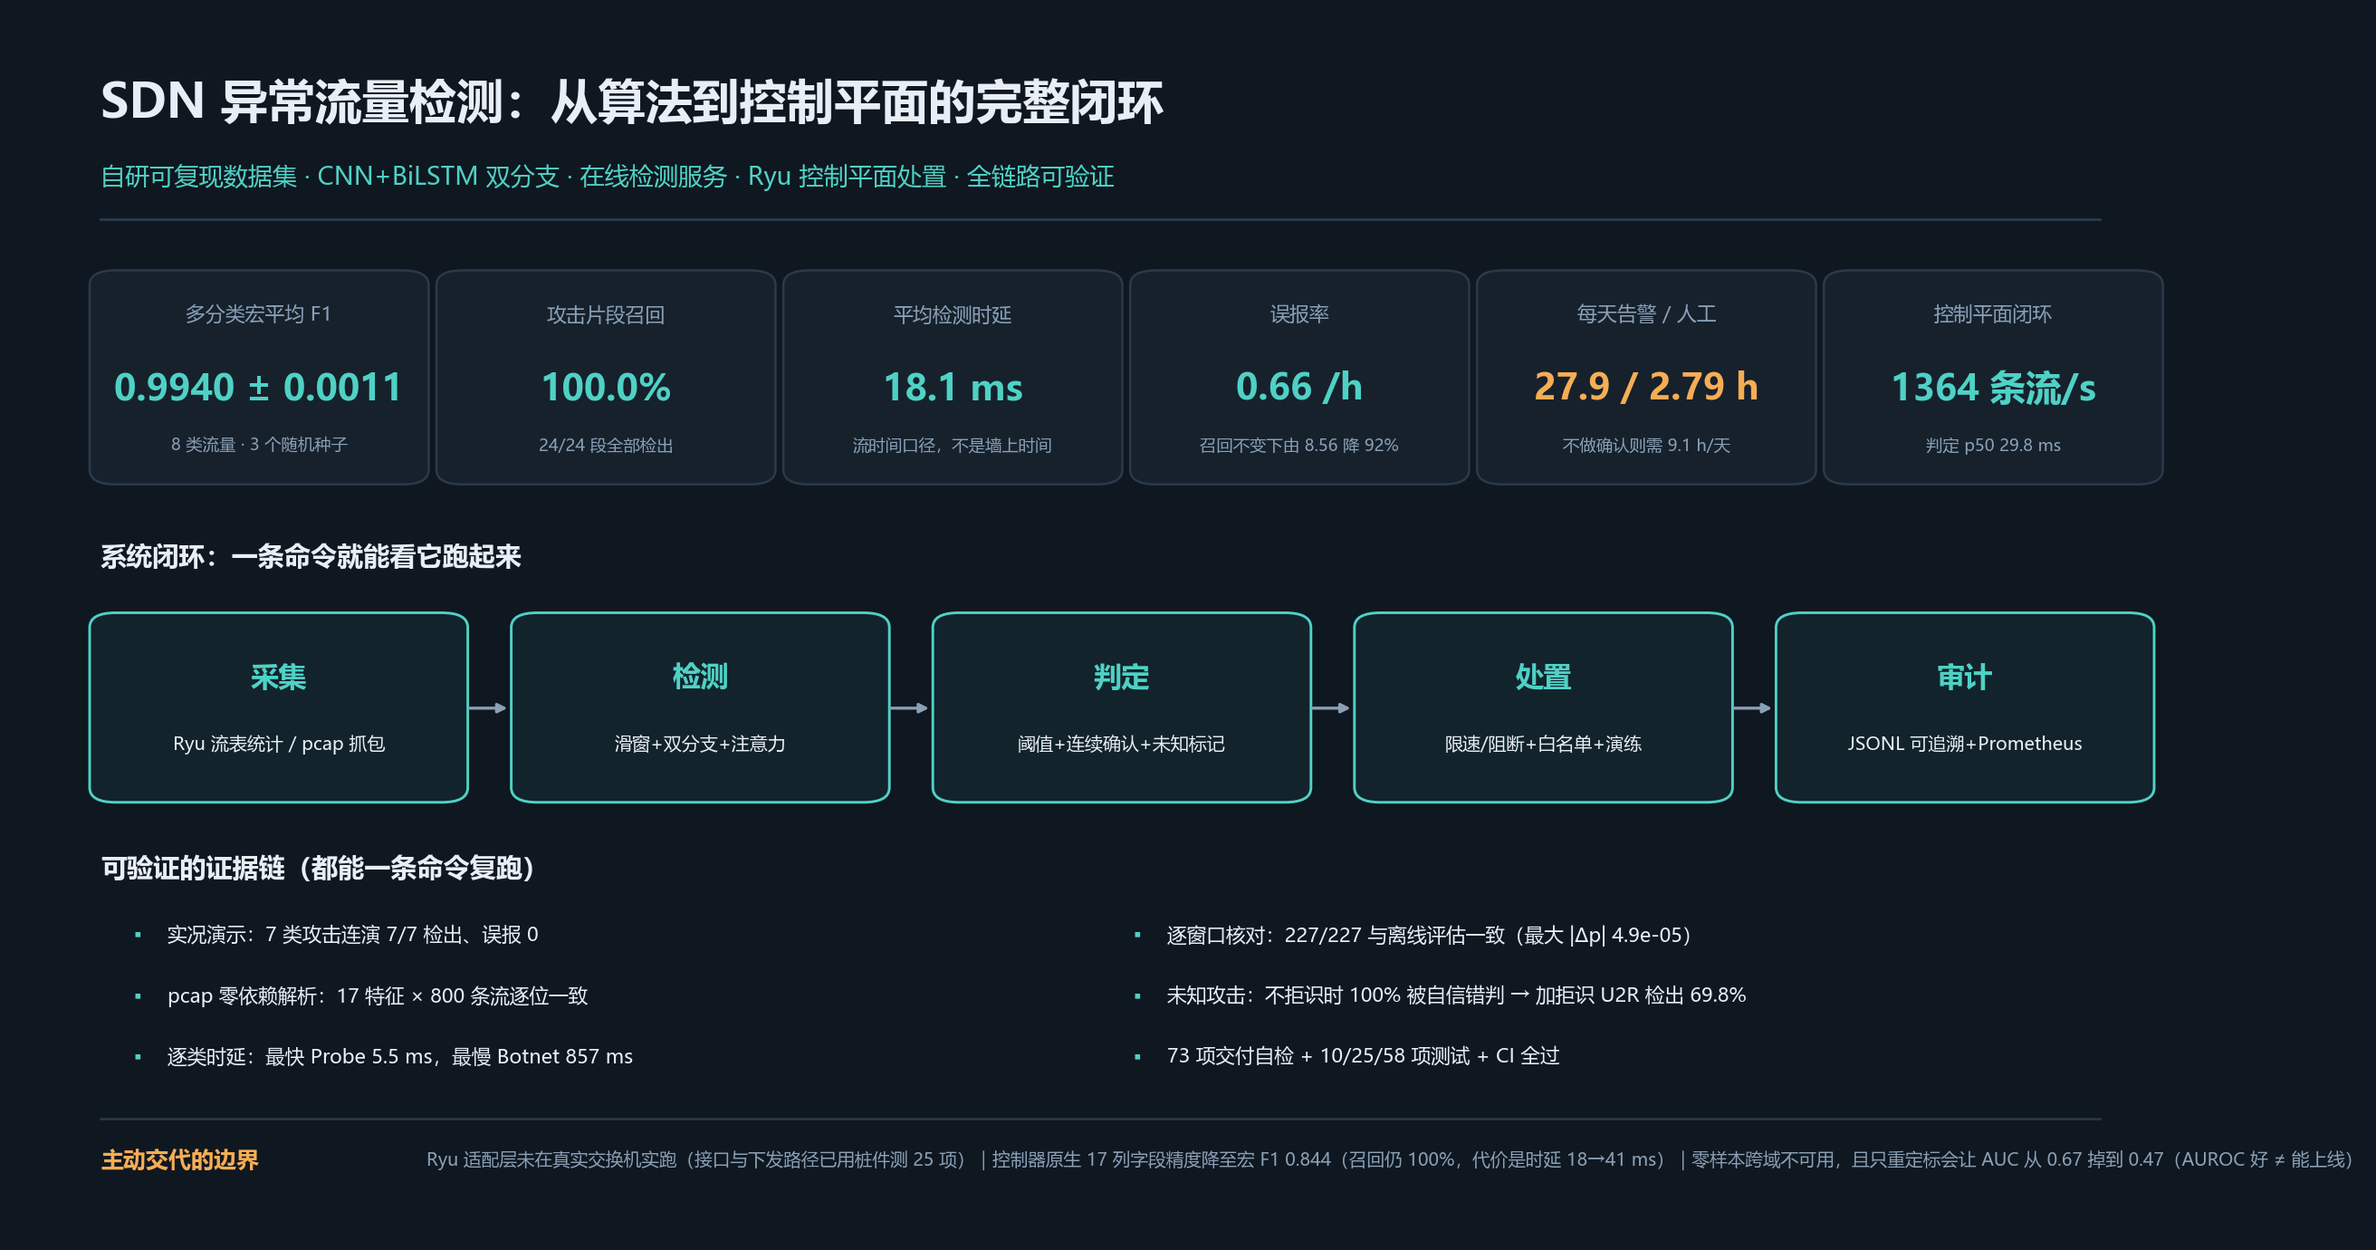
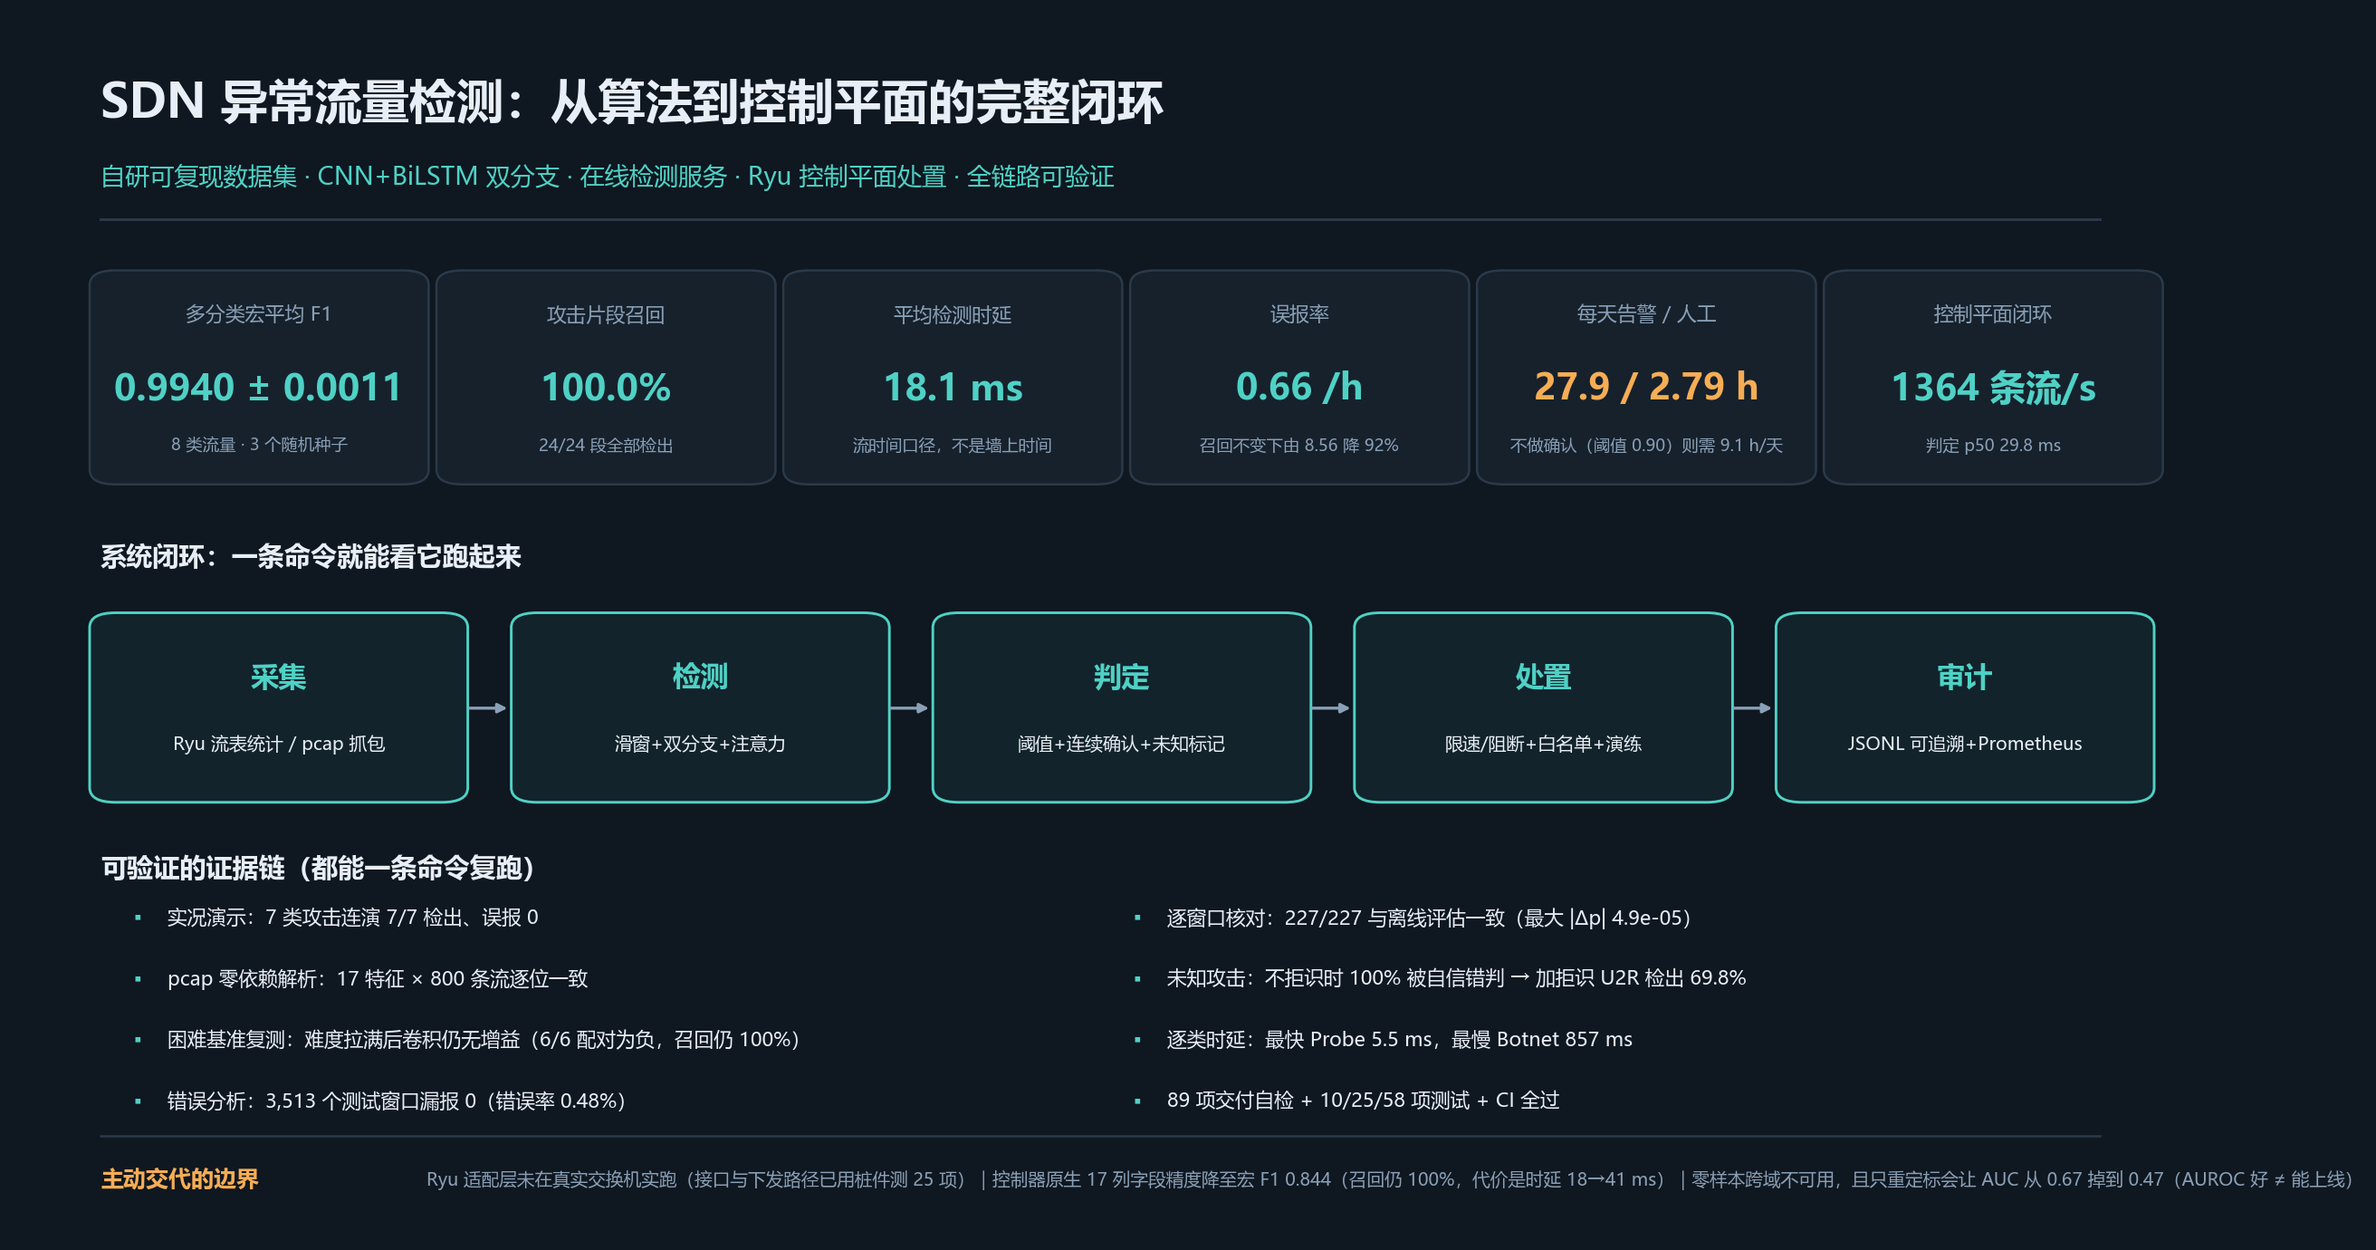
polish(materials): 把困难基准结论搬进对外材料，并堵住"对外数字漂移"这类坑
一页纸（视频路演满屏结论页）
- 证据链从 6 条扩到 8 条：新增「困难基准复测：难度拉满后卷积仍无增益（6/6 配对为负，
  召回仍 100%）」与「错误分析：3,513 个测试窗口漏报 0（错误率 0.48%）」，
  版面改为 2×4 并下移分割线与边界行（已用本地 qwen3-vl 核验：8 条齐全、无压字、无乱码）。
- 修掉图上一处过期数字：图上写「73 项交付自检」，实际已是 89 项。
- 澄清一处易误读的注释：「不做确认则需 9.1 h/天」→「不做确认（阈值 0.90）则需 9.1 h/天」，
  避免与默认工作点（0.50 + 确认 3）的 22.5 h/天 混淆。

防漂移守卫（自查工具）
- tools/acceptance_check.py 新增第 8 节「对外材料里的数字与真实自检结果一致」：
  把 tools/make_onepager.py 里写死的「N 项交付自检」与本次真实通过数对齐，
  不一致直接计入 failed（仍然是"不过就不许提交"的硬约束）。
  该步故意不占用自检项数（不调用 r.check），否则项数会把自己算进去，
  每加一个检查就要把所有对外文档的数字再改一遍 —— 反而制造新的漂移源；故仍为 89 项。
- 已用故障注入验证该守卫真的会拦：把图上数字临时改成 88 项后，守卫给出 ✗ 且 failed=1
  （验证后已还原，当前 89/89 通过）。

文档一致性
- docs/04_运维手册.md 新增「换个更难的网络环境，这个选型还成立吗」三问三答：
  ① 片段召回不随难度退化（30/30 全检出，与简单基准 24/24 同为 100%）；
  ② 误报会涨（3.29→14.88 次/小时）但主因是流量变模糊，换环境必须重标阈值；
  ③ 别指望加长窗口救极端环境（困难档 T=32 误报仍有 4.43±1.68）。
- docs/03_答辩要点与配置清单.md：Q11「为什么 CNN 分支增益不明显」改写为五步完整链条
  （T=48 → 另造困难基准 → 逐种子配对 6/6 为负 → 可解释原因 → 难度翻倍召回仍 100%），
  并在「30 秒必说的数字」表里加一行。
- docs/screenshots/README.md：补齐 03/04 两张既有截图的说明（含 04 漂移面板的实测数字
  与「熵高 ≠ 检测到未知攻击」的边界），并修掉「通过 52 项」这一过期数字。
- competition/04_演示视频脚本.md：新增「04:00–04:20 把最容易被质疑的结论主动测穿」整段讲解词
  （困难基准对比图作画面），时间轴重排为 4:55，并加进录制后自查清单与 3 分钟删减优先级。
- competition/README.md：评分对照表补上困难基准复测；结果速览更新窗口消融到 T=32
  （误报 0.11 次/小时、逐种子波动收敛）并新增困难基准一行；图表数改为可核验的 25 张。
- 全局：验收项数 69→89（含 docs/04 与视频脚本里残留的 73），工具数 14/18→25。

验证：sanitize 0 处；三套测试 10/10、25/25、58/58；交付验收 89 项通过 / 1 警告 / 0 失败。

Changed region(s): [[0.0312, 0.7167, 1.0, 0.9659], [0.625, 0.3428, 0.75, 0.3739]]

diff --git a/tools/make_onepager.py b/tools/make_onepager.py
@@ -162,7 +162,7 @@ def render(d: dict, out: Path) -> Path | None:
          _L("召回不变下由 8.56 降 92%", "92% cut, recall kept"), ACC),
         (_L("每天告警 / 人工", "Alerts & triage per day"),
          (f"{_fmt(d['alarms_day'], 1)} / {_fmt(d['triage_h'], 2)} h" if d["alarms_day"] else "n/a"),
-         _L("不做确认则需 9.1 h/天", "9.1 h/day without confirmation"), WARN),
+         _L("不做确认（阈值 0.90）则需 9.1 h/天", "9.1 h/day without confirmation"), WARN),
         (_L("控制平面闭环", "End-to-end loop"),
          (f"{_fmt(d['e2e_throughput'], 0)} 条流/s" if d["e2e_throughput"] else "n/a"),
          _L(f"判定 p50 {_fmt(d['e2e_p50'], 1)} ms", ""), ACC),
@@ -210,23 +210,27 @@ def render(d: dict, out: Path) -> Path | None:
            "pcap round-trip exact"),
         _L("未知攻击：不拒识时 100% 被自信错判 → 加拒识 U2R 检出 69.8%",
            "open-set: 100% confident mislabel → 69.8% at 1% FPR"),
+        _L("困难基准复测：难度拉满后卷积仍无增益（6/6 配对为负，召回仍 100%）",
+           "hard benchmark: no gain for CNN even when data is made much harder"),
         _L(f"逐类时延：最快 {d['fast_cls']} {_fmt(d['fast_ms'], 1)} ms，最慢 {d['slow_cls']} {_fmt(d['slow_ms'], 0)} ms",
            f"per-class delay: fastest {d['fast_cls']}, slowest {d['slow_cls']}"),
-        _L("73 项交付自检 + 10/25/58 项测试 + CI 全过",
-           "73-item acceptance + tests + CI"),
+        _L("错误分析：3,513 个测试窗口漏报 0（错误率 0.48%）",
+           "error analysis: zero misses on 3,513 windows"),
+        _L("89 项交付自检 + 10/25/58 项测试 + CI 全过",
+           "89-item acceptance + tests + CI"),
     ]
     for i, txt in enumerate(ev):
         col, row = i % 2, i // 2
         x = 5.5 + col * 46
-        y = 24.6 - row * 5.0
+        y = 26.0 - row * 5.0
         ax.text(x, y, "▪", color=ACC, fontsize=11, va="center")
         ax.text(x + 1.6, y, txt, color=FG, fontsize=10.4, va="center")
 
     # ---------------- 诚实边界（放在最下面，主动交代） ----------------
-    ax.plot([4, 96], [9.6, 9.6], color="#2a3a4a", lw=1.2)
-    ax.text(4, 6.2, _L("主动交代的边界", "Disclosed limits"), color=WARN, fontsize=12,
+    ax.plot([4, 96], [8.2, 8.2], color="#2a3a4a", lw=1.2)
+    ax.text(4, 4.6, _L("主动交代的边界", "Disclosed limits"), color=WARN, fontsize=12,
             fontweight="bold", va="center")
-    ax.text(19, 6.2,
+    ax.text(19, 4.6,
             _L("Ryu 适配层未在真实交换机实跑（接口与下发路径已用桩件测 25 项）｜"
                "控制器原生 17 列字段精度降至宏 F1 0.844（召回仍 100%，代价是时延 18→41 ms）｜"
                "零样本跨域不可用，且只重定标会让 AUC 从 0.67 掉到 0.47（AUROC 好 ≠ 能上线）",

diff --git a/tools/acceptance_check.py b/tools/acceptance_check.py
@@ -15,6 +15,7 @@ from __future__ import annotations
 import importlib.util
 import json
 import os
+import re
 import sys
 from pathlib import Path
 
@@ -647,6 +648,34 @@ def check_deployable(r: Report) -> None:
         os.environ.update(env)
 
 
+def check_self_consistency(r: Report, n_passed: int) -> None:
+    """防止"一页纸/文档里写死的自检项数"与真实项数漂移（踩过：图上写着 73 项，实际已是 89 项）。
+
+    只做一件事：把 `tools/make_onepager.py` 里写死的「N 项交付自检」与本次真实通过数对齐。
+
+    ⚠ 这一步**故意不占用自检项数**（不调用 `r.check`）：否则"项数"会把自己算进去，
+    每加一个检查就要把所有对外文档里的数字再改一遍，反而制造新的漂移源。
+    判定失败时直接计入 `r.failed`，所以它仍然是"不过就不许提交"的硬约束。
+    """
+    section("8) 对外材料里的数字与真实自检结果一致（防漂移）")
+    onepager = ROOT / "tools" / "make_onepager.py"
+    if not onepager.exists():
+        print(f"  {WARN} 一页纸生成脚本存在（可选）  —— 未找到 tools/make_onepager.py")
+        return
+    txt = onepager.read_text(encoding="utf-8")
+    m = re.search(r"(\d+)\s*项交付自检", txt)
+    if not m:
+        print(f"  {WARN} 一页纸标注了自检项数（可选）  —— 未在 make_onepager.py 找到「N 项交付自检」字样")
+        return
+    claimed = int(m.group(1))
+    if claimed == n_passed:
+        print(f"  {PASS} 满屏结论页上标注的自检项数与实际一致  —— 图上写 {claimed} 项 / 实际 {n_passed} 项")
+        return
+    r.failed += 1
+    print(f"  {FAIL} 满屏结论页上标注的自检项数与实际不一致  —— 图上写 {claimed} 项 / 实际 {n_passed} 项"
+          f" → 请改 tools/make_onepager.py 后重跑 python tools/make_onepager.py")
+
+
 def main() -> int:
     print("=" * 74)
     print("交付验收自检 · CNN + BiLSTM SDN 异常检测工程")
@@ -659,6 +688,7 @@ def main() -> int:
     check_demo(r)
     check_unit_tests(r)
     check_deployable(r)
+    check_self_consistency(r, len(r.rows) - r.failed - r.warned)
 
     section("结论")
     print(f"  通过 {len(r.rows) - r.failed - r.warned} 项 | 警告 {r.warned} 项 | 失败 {r.failed} 项")

diff --git a/docs/screenshots/README.md b/docs/screenshots/README.md
@@ -8,12 +8,16 @@
 |---|---|---|
 | `01_dashboard_ddos_alarm.png` | 注入 DDoS 攻击片段后：风险值 **1.000**、判定「DDoS」、曲线区出现红色告警带、告警日志首条为 `DDoS p=1.000 · 窗口真值 DDoS（命中）` | 在线检测链路端到端可用；**告警与真实标签一一对应（命中）**，不是动画 |
 | `02_dashboard_bruteforce_vs_normal.png` | 注入 BruteForce 攻击片段后：判定「BruteForce」、告警日志首条 `BruteForce p=1.000 · 窗口真值 BruteForce（命中）` | 8 类攻击都能被正确识别与命名，而不是只报"异常" |
+| `03_soc_console.png` | 迷你 SOC 控制台全屏：**攻击拓扑与处置态势（真实判定驱动）** + 实时检测曲线 + 当前窗口判定 + 服务状态条（已处理流记录 / 已判定窗口 / 确认告警 / p50 判定时延） | 「这是系统而不是课题」：判定、处置、审计在同一个界面上闭环，且状态条上的数字都来自真实运行 |
+| `04_drift_panel.png` | 「漂移与未知态势」面板：**未知占比随时间曲线**（峰值 6.78% @ 第 13/60 格，参考线 = 标定阈值预算 1.0%）+ 攻击构成堆叠 + 模型判定类别占比 + **一键跳到未知占比最高处**（跳到回放位置 4,260）、回放游标与速度控制 | 把"模型对当前流量的陌生程度"变成看得见的曲线：**未知率突升 = 可能有新攻击或分布变化**，可直接交给值班研判；数据走只读接口 `/api/novelty`，**不需要 TensorFlow** |
+
+> 04 的边界（界面上也有提示）：**熵高只代表低置信，不等于检测到未知攻击**——它给出的是"值得人工复核"的线索，不是结论。
 
 ## 建议再补几张（团队自录，5 分钟就能搞定）
 
 | 建议截什么 | 怎么截 | 对应评分点 |
 |---|---|---|
-| 验收自检结论行 | 终端跑 `python tools/acceptance_check.py`，截最后「通过 52 项 \| 警告 1 项 \| 失败 0 项」 | 实现完成度与可验证效果（同分第一顺位） |
+| 验收自检结论行 | 终端跑 `python tools/acceptance_check.py`，截最后「通过 89 项 \| 警告 1 项 \| 失败 0 项」 | 实现完成度与可验证效果（同分第一顺位） |
 | 策略热更新 | 截两个 `curl`（GET 查询 + POST 更新阈值/白名单）与其 JSON 返回 | 「运行时可控」，区别于只能离线跑的实验代码 |
 | 控制器闭环输出 | 终端跑 `python tools/controller_simulator.py --rows 3000 --batch 50 --policy block --no-dry-run`，截吞吐与 p50/p95 那几行 | AI 与开源（Ryu 控制平面）融合 |
 | 审计台账 | 打开 `results/audit_alerts.jsonl` 的一行（时间/源 IP/类别/置信度/动作/触发窗口） | 可追溯性 —— 能否进生产的分水岭 |

diff --git a/docs/04_运维手册.md b/docs/04_运维手册.md
@@ -1,4 +1,4 @@
-# 运维手册（SLO · 工作点 · 巡检 · 故障处置）
+# 运维手册（SLO · 工作点 · 巡检 · 故障处置）
 
 > 面向**接管这套系统的人**：拿到它之后怎么上线、每天看什么、出问题怎么办、以及**它做得到什么、做不到什么**。
 > 部署安装与控制器对接步骤见 [`DEPLOYMENT.md`](../DEPLOYMENT.md)；算法与实验数据见 [`README.md`](../README.md) 与
@@ -47,7 +47,7 @@
 ## 三、上线顺序（照这个顺序做，不要跳步）
 
 - [ ] **1. 环境自检**：`python tools/check_env.py` → 全 ✓
-- [ ] **2. 交付自检**：`python tools/acceptance_check.py` → **73 项通过、0 失败**（1 个警告是本机没装 Ryu，属预期）
+- [ ] **2. 交付自检**：`python tools/acceptance_check.py` → **89 项通过、0 失败**（1 个警告是本机没装 Ryu，属预期）
 - [ ] **3. 冒烟**：`python run_all.py --smoke`（约 20 秒，用独立目录，不会污染正式结果）
 - [ ] **4. 观测一周（关键）**：用 `observe` + `dry_run=1` 起服务，**只看不动**，接入 `/metrics`
 - [ ] **5. 标定工作点**：在一段**独立验证流**上按误报预算选阈值与确认次数（见第四节）
@@ -218,12 +218,12 @@ curl -X POST http://127.0.0.1:5000/api/policy -H "Content-Type: application/json
 | 换数据口径 | `--processed-dir` 与 `--model-tag` **成对**指定 | 页面显示的模型与实际判定不是同一个 |
 | 改阈值 / 确认次数 | 在独立验证流上重新标定，并更新巡检基线 | 误报/漏报比例整体漂移，历史对比失效 |
 | 启用未知标记 | 在新环境正常流量上重跑 `tools/openset_calibrate.py` | 阈值不匹配 → 未知告警泛滥或形同虚设 |
-| 升级依赖 | 跑 `python tools/acceptance_check.py`（73 项）与三套测试 | 静默行为变化（如 sklearn 指标口径）会污染所有数字 |
+| 升级依赖 | 跑 `python tools/acceptance_check.py`（89 项）与三套测试 | 静默行为变化（如 sklearn 指标口径）会污染所有数字 |
 
 **变更后必须跑的三条**：
 ```bash
 python tests/test_core.py && python tests/test_ryu_guard.py && python tests/test_pcap_tools.py
-python tools/acceptance_check.py          # 73 项，必须 0 失败
+python tools/acceptance_check.py          # 89 项，必须 0 失败
 python tools/live_demo.py --speed 0       # 端到端仍能演完一场，且与离线评估逐窗口一致
 ```
 

diff --git a/competition/04_演示视频脚本.md b/competition/04_演示视频脚本.md
@@ -22,7 +22,7 @@
 4. **浏览器用无痕窗口**，隐藏书签栏，缩放 110% 让字更大。
 5. **提前热跑一遍**（确认都不需要等待；TensorFlow 首批有约 0.5 秒计算图构建，先跑一次就没了）：
    ```powershell
-   python tools/acceptance_check.py                # 73 项全过
+   python tools/acceptance_check.py                # 89 项全过
    python tools/live_demo.py --speed 50            # 演一场，确认屏幕输出正常
    python tools/live_demo_campaign.py --speed 0    # 7 类连演，产出对比表
    ```
@@ -58,7 +58,7 @@ python tools/live_demo_campaign.py --speed 0   # 7 类连演对比表
 | **困难基准复测（强烈建议用）** | `results/figures/hard_ablation_compare.png`、`results/hard_ablation.md` | **把难度拉满后重测"卷积到底有没有用"——两套难度、四个窗长、6/6 逐种子配对全为负**；左图一眼可见 |
 | 在线时间轴 | `results/figures/07_online_timeline_*.png` | 真实曲线与真实标签对齐 |
 | 控制器闭环 | `results/e2e_controller_report.md` | 1,364~1,918 条流/秒、p50 29.8 ms、审计台账 |
-| 大屏截图（B 卷兜底） | `docs/screenshots/01_dashboard_ddos_alarm.png`、`03_soc_console.png` | 现场演示出问题可直接切图 |
+| 大屏截图（B 卷兜底） | `docs/screenshots/01_dashboard_ddos_alarm.png`、`03_soc_console.png`、`04_drift_panel.png` | 现场演示出问题可直接切图；04 是「漂移与未知态势」面板（未知占比峰值 6.78% vs 参考线 1.0%） |
 | 审计台账（可追溯） | `results/audit_alerts.jsonl` | 每条告警都能追到"谁、何时、依据什么、做了什么" |
 
 > 素材全部由脚本生成、**可复现**；数字与报告完全一致，不会出现"视频里的数和报告对不上"。
